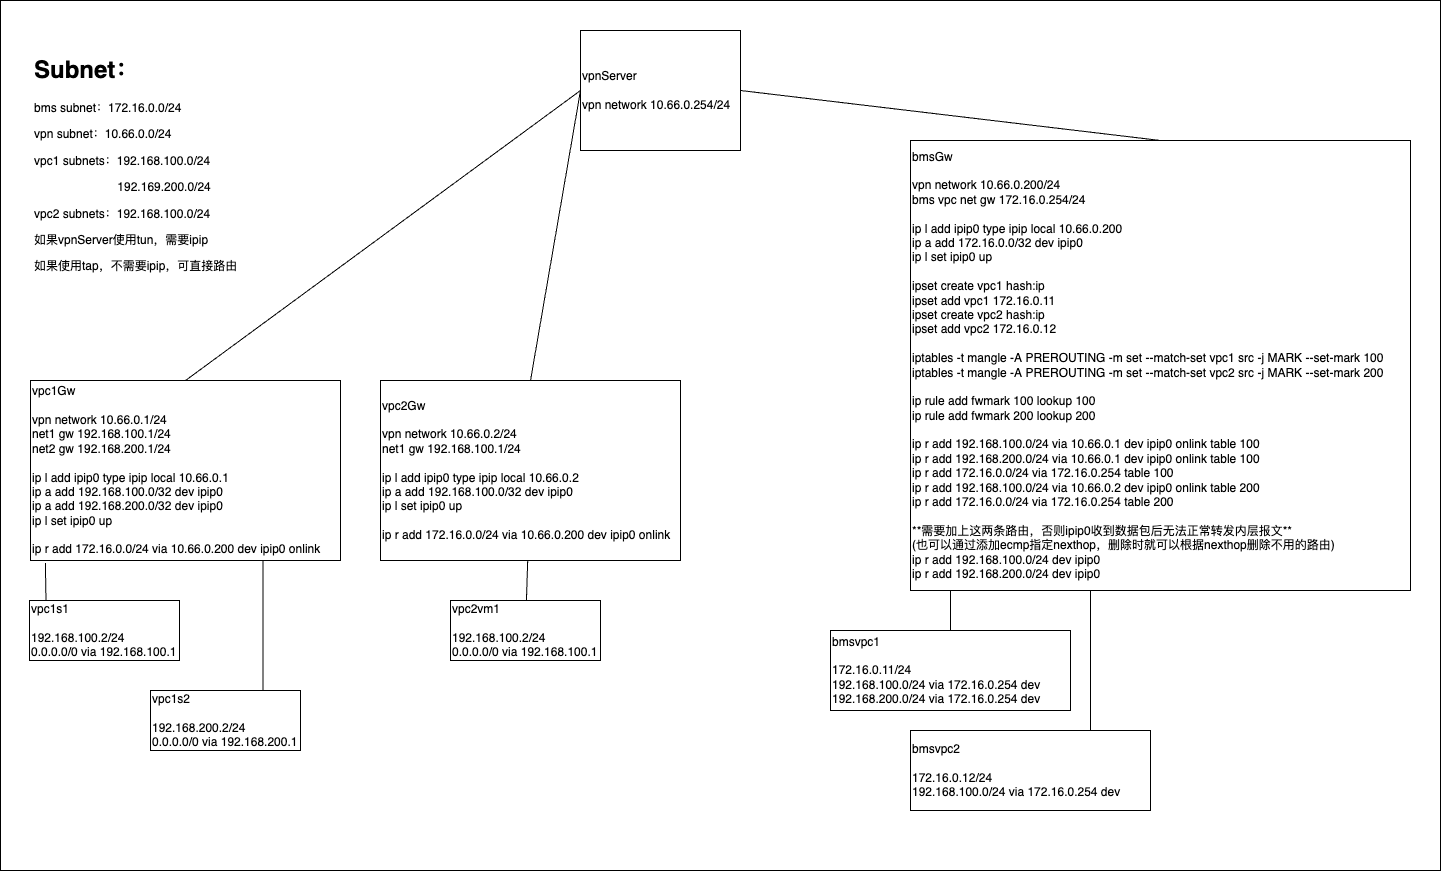
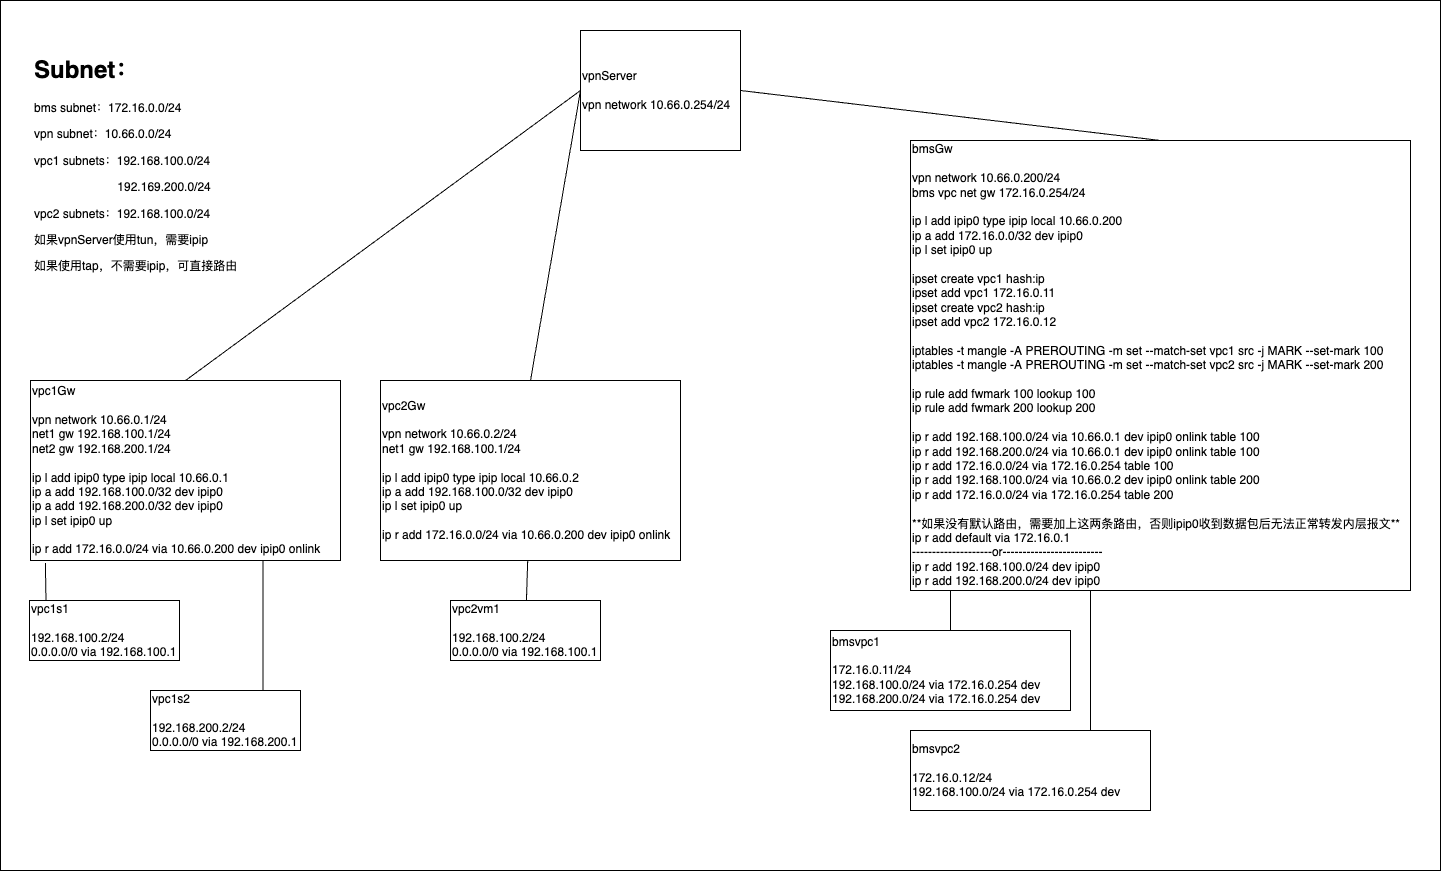
Add blueprint for vpc can connect to bms subnet

Changed region(s): [[0.6246, 0.155, 0.9681, 0.682]]

diff --git a/README.md b/README.md
@@ -27,3 +27,6 @@ tap实现的VPN：[virtuallan](https://github.com/lucheng0127/virtuallan)
 
 ## 附:
 测试环境搭建脚本见script目录[setup_topo.sh](./script/setup_topo.sh)
+
+### 如果vpc网络和裸金属网络路由可达
+[裸金属VPC网络路由可达时网络方案](./docs/vpc和bms网络可达方案.png)
